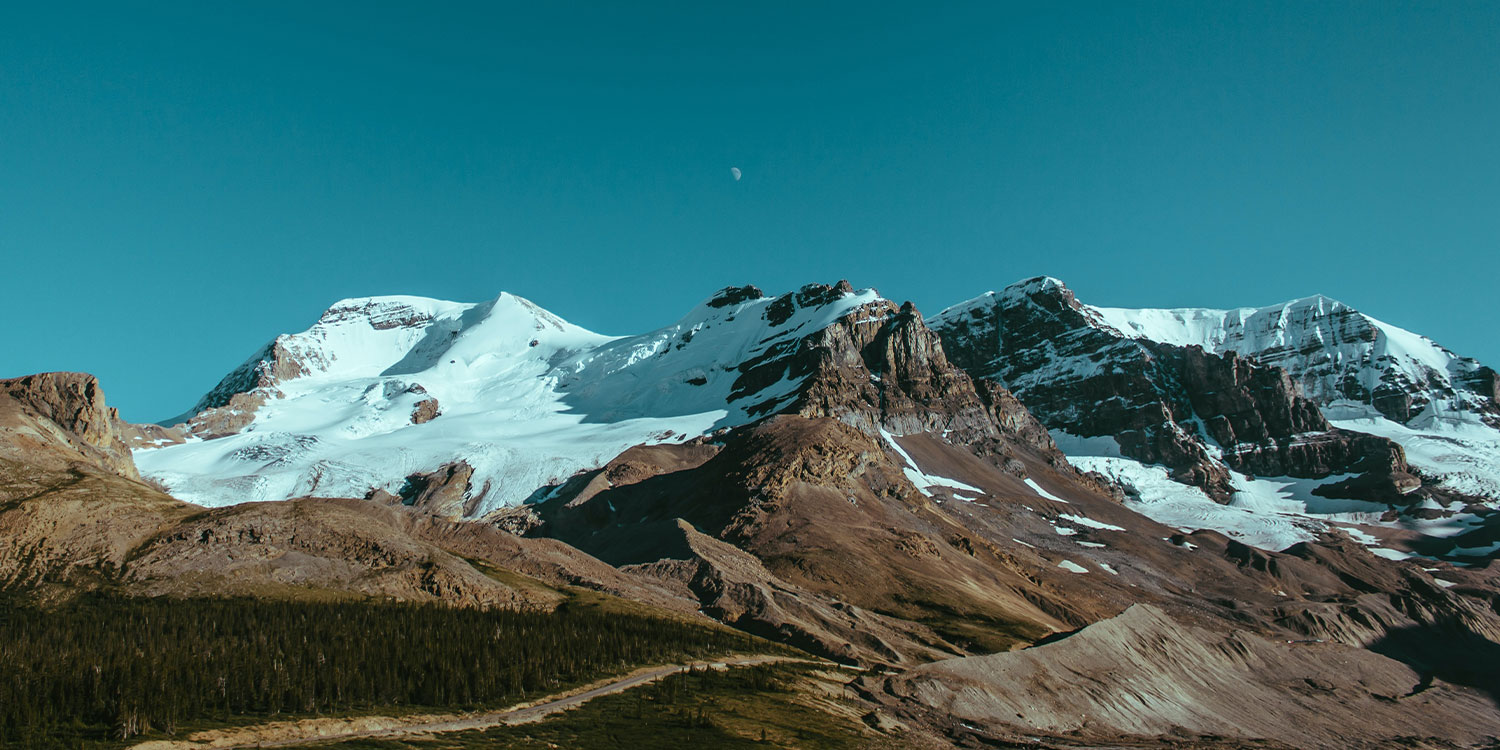
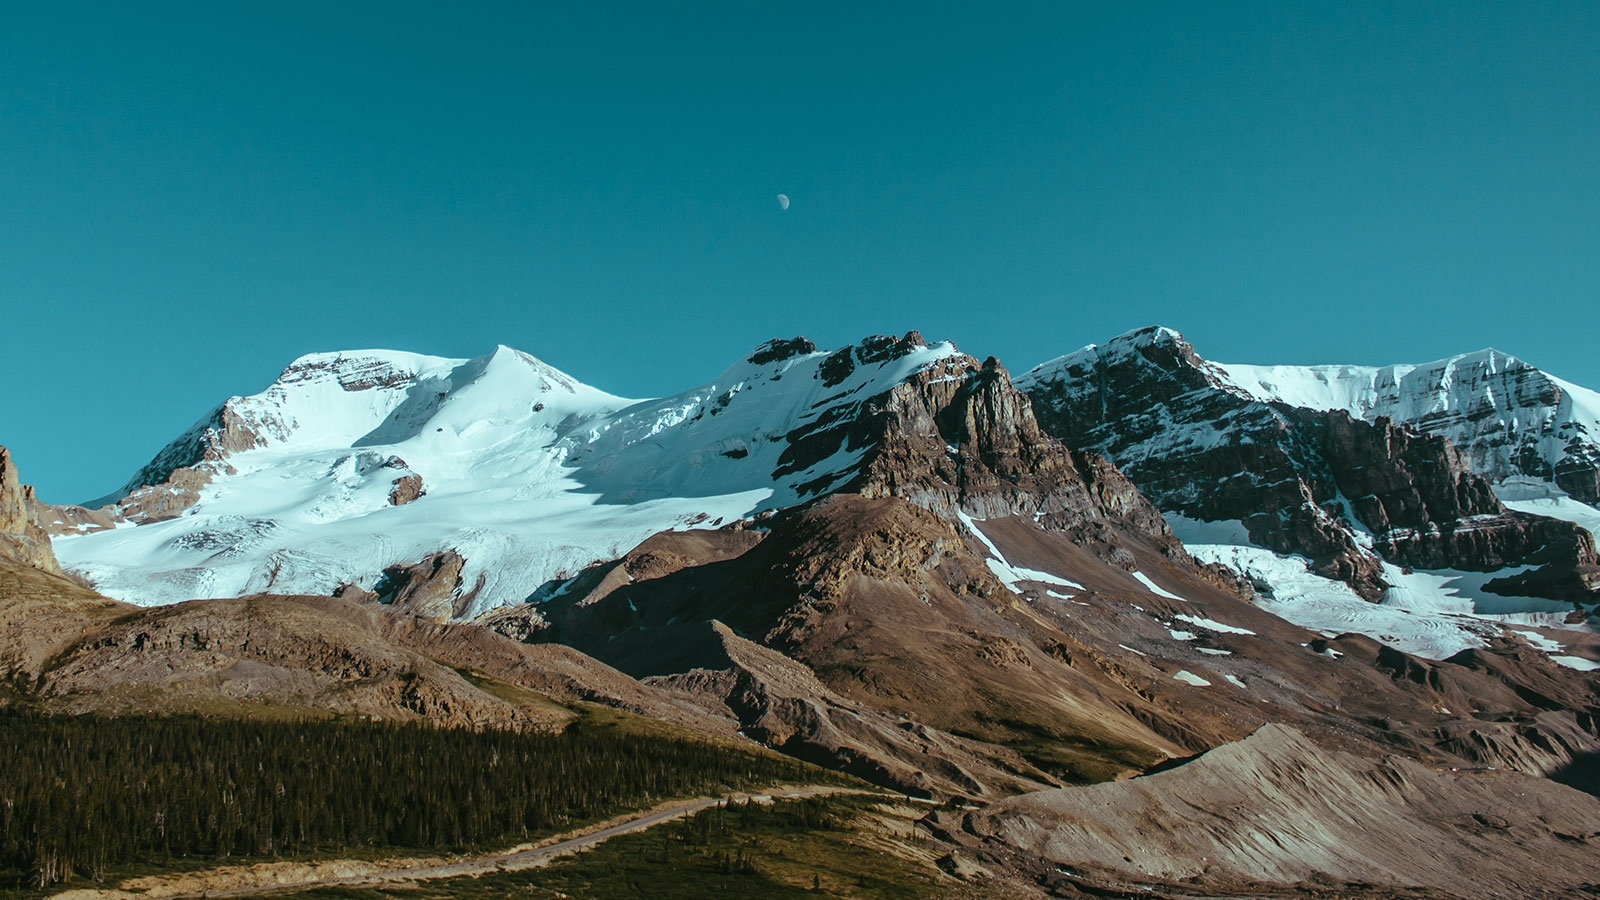
updating backdrops

diff --git a/_docs-a-z/backdrops.html b/_docs-a-z/backdrops.html
@@ -71,7 +71,7 @@ title: "Backdrops"
                     &lt;/div&gt;
 
                     &lt;div class="backdrop__image"&gt;
-                        &lt;img class="opacity-50" src="https://via.placeholder.com/1500x750" alt="Placeholder"&gt;
+                        &lt;img class="opacity-50" src="https://via.placeholder.com/1600x900" alt="Placeholder"&gt;
                     &lt;/div&gt;
 
                     &lt;div class="backdrop__cover"&gt;
@@ -88,11 +88,12 @@ title: "Backdrops"
                     &lt;/div&gt;
                     
                 &lt;/div&gt;
+                &lt;!-- .backdrop --&gt;
             </code>
         </pre>
     </div>
     <figcaption>
-        <p>Figure 4</p>
+        <p>Figure 1</p>
     </figcaption>
 </figure>
 
@@ -163,23 +164,22 @@ title: "Backdrops"
 <div class="container narrow margin-y-4">
     <h3>Breakpoint Modifiers</h3>
     <p>
-        When using image size proportional backdrops for featured content (like the full-width example below) the content may become
-        too tall for the image on smaller viewport sizes.
+        When using image size proportional backdrops for featured content (like the full-width example below) the content may become too tall for the image on smaller viewport sizes.
     </p>
 </div>
 
 <figure class="margin-y-4">
 
-    <div class="backdrop backdrop--stack--md theme-dark example" {{ site.example-custom-properties }}>
+    <div class="backdrop backdrop--stack--lg theme-dark" {{ site.example-custom-properties }}>
 
         <div class="backdrop__credit">
             <p>
-                Photo by <a href="#1">Jane Doe</a> on Unsplash
+                Photo by <a href="https://unsplash.com/@anik3t?utm_source=unsplash&utm_medium=referral&utm_content=creditCopyText" target="_blank">Aniket Deole</a> on <a href="https://unsplash.com/s/photos/yosemite?utm_source=unsplash&utm_medium=referral&utm_content=creditCopyText" target="_blank">Unsplash</a>
             </p>
         </div>
 
         <div class="backdrop__image">
-            <img class="opacity-30" src="{{ site.url }}/images/examples/backdrop-example-02.jpg" alt="Placeholder">
+            <img class="opacity-40--lg" src="{{ site.url }}/images/examples/backdrop-example-02.jpg" alt="Placeholder">
         </div>
 
         <div class="backdrop__cover">
@@ -195,11 +195,11 @@ title: "Backdrops"
                     </p>
                 </div>
 
-                <div class="grid grid--gap-2 grid--cell-fill--md">
+                <div class="grid grid--gap-2 grid--cell-6--md">
 
                     <div class="grid__cell">
                         <a class="button button--outline width-100" href="#1">
-                        About Emily Dickenson
+                            About Emily Dickenson
                         </a>
                     </div>
 
@@ -214,9 +214,9 @@ title: "Backdrops"
             </div>
 
         </div>
-        <!-- .backdrop__cover -->
 
     </div>
+    <!-- .backdrop -->
 
 </figure>
 
@@ -253,45 +253,41 @@ title: "Backdrops"
                 &lt;/div&gt;
 
                 &lt;div class="backdrop__image"&gt;
-                    &lt;img class="opacity-30" src="https://via.placeholder.com/1500x750" alt="Placeholder"&gt;
+                    &lt;img class="opacity-40--lg" src="https://via.placeholder.com/1600x900" alt="Placeholder"&gt;
                 &lt;/div&gt;
 
                 &lt;div class="backdrop__cover"&gt;
 
-                    &lt;div class="container text-align-center"&gt;
-                        &lt;div class="container medium margin-y-4"&gt;
+                    &lt;div class="container narrow margin-y-5"&gt;
 
-                            &lt;h1 class="banner-headline text-align-center text-shadow margin-bottom-4"&gt;
-                                Lorem ipsum dolor sit amet consectetur
+                        &lt;div class="text-shadow text-align-center margin-bottom-4"&gt;
+                            &lt;h1 class="banner-headline"&gt; 
+                                The mountain at a given distance In amber lies
                             &lt;/h1&gt;
-
-                            &lt;div class="narrow"&gt;
-
-                                &lt;div class="grid grid--gap-2 grid--cell-fill--sm"&gt;
-
-                                    &lt;div class="grid__cell"&gt;
-                                        &lt;a class="button theme-primary display-block theme-white box-shadow" href="#1"&gt;Link&lt;/a&gt;
-                                    &lt;/div&gt;
-                                    &lt;!-- .grid__cell --&gt;
-
-                                    &lt;div class="grid__cell"&gt;
-                                        &lt;a class="button theme-secondary display-block theme-white box-shadow" href="#1"&gt;Link&lt;/a&gt;
-                                    &lt;/div&gt;
-                                    &lt;!-- .grid__cell --&gt;
-
-                                &lt;/div&gt;
-                                &lt;!-- .grid --&gt;
-
-                            &lt;/div&gt;
-
+                            &lt;p&gt;
+                                &#8212;Excerpt from &lt;em&gt;Delight becomes pictoral&lt;/em&gt;
+                            &lt;/p&gt;
                         &lt;/div&gt;
-                        &lt;!-- .container --&gt;
+
+                        &lt;div class="grid grid--gap-2 grid--cell-6--md"&gt;
+                            &lt;div class="grid__cell"&gt;
+                                &lt;a class="button button--outline width-100" href="#1"&gt;
+                                    About Emily Dickenson
+                                &lt;/a&gt;
+                            &lt;/div&gt;
+                            &lt;div class="grid__cell"&gt;
+                                &lt;a class="button theme-secondary width-100 box-shadow-1" href="#1"&gt;
+                                    Emily Dickenson Poetry
+                                &lt;/a&gt;
+                            &lt;/div&gt;
+                        &lt;/div&gt;
+
                     &lt;/div&gt;
 
                 &lt;/div&gt;
-                &lt;!-- .backdrop__cover --&gt;
 
             &lt;/div&gt;
+            &lt;!-- .backdrop --&gt;
         </code>
     </pre>
     <figcaption>
@@ -302,7 +298,7 @@ title: "Backdrops"
 
 <div class="container narrow margin-y-4">
     <p>
-        All of this together makes it easy to create responsive backdrops with different flavors of color and content. What if we don't want our backdrop's size to be dictated by the image?
+        All of this together makes it easy to create responsive backdrops with different flavors of color and content. What if we don't want our backdrop's size to be dictated by its feature image?
     </p>
 </div>
 <!-- .container -->
@@ -315,7 +311,7 @@ title: "Backdrops"
         Fixed height backdrops retain their height across viewport sizes. When needed, they adjust to the height of their inner content.
     </p>
     <p>
-        For a fixed height backdrop, append the <code>backdrop--fixed</code> modifier to the <code>.backdrop</code> selector.
+        For a fixed height backdrop, append the <code>.backdrop--fixed</code> modifier to the <code>.backdrop</code> selector.
     </p>
 </div>
 
@@ -325,7 +321,7 @@ title: "Backdrops"
 
         <div class="backdrop__credit">
             <p>
-                Photo by <a href="#1">Jane Doe</a> on Unsplash
+                Photo by <a href="https://unsplash.com/@ryanschroeder?utm_source=unsplash&utm_medium=referral&utm_content=creditCopyText" target="blank">Ryan Schroeder</a> on <a href="https://unsplash.com/@ryanschroeder?utm_source=unsplash&utm_medium=referral&utm_content=creditCopyText" target="blank">Unsplash</a>
             </p>
         </div>
 
@@ -363,19 +359,18 @@ title: "Backdrops"
                 &lt;/div&gt;
 
                 &lt;div class="backdrop__image"&gt;
-                    &lt;img class="opacity-30" src="https://via.placeholder.com/1500x750.jpg" alt="Placeholder"&gt;
+                    &lt;img class="opacity-40" src="https://via.placeholder.com/1600x900" alt="Placeholder"&gt;
                 &lt;/div&gt;
 
                 &lt;div class="backdrop__cover"&gt;
 
                     &lt;div class="container medium margin-y-4"&gt;
-                        &lt;h1 class="banner-headline text-shadow"&gt;
-                            Lorem ipsum dolor
+                        &lt;h1 class="banner-headline text-color-secondary text-shadow"&gt;
+                            The Mountain sat upon the Plain
                         &lt;/h1&gt;
                     &lt;/div&gt;
 
                 &lt;/div&gt;
-                &lt;!-- .backdrop__cover --&gt;
 
             &lt;/div&gt;
             &lt;!-- .backdrop --&gt;
@@ -499,7 +494,7 @@ title: "Backdrops"
                 &lt;/div&gt;
 
                 &lt;div class="backdrop__image gradient-veneer-bottom"&gt;
-                    &lt;img class="opacity-20" src="https://via.placeholder.com/1500x750.jpg" alt=""&gt;
+                    &lt;img class="opacity-20" src="https://via.placeholder.com/1600x900.jpg" alt=""&gt;
                 &lt;/div&gt;
 
                 &lt;div class="backdrop__cover"&gt;

diff --git a/_examples/backdrops/backdrops-01.html b/_examples/backdrops/backdrops-01.html
@@ -9,7 +9,7 @@ title: "Backdrop (Breakpoint)"
 
         <div class="backdrop__credit">
             <p>
-                Photo by <a href="#1">Jane Doe</a> on Unsplash
+                Photo by <a href="https://unsplash.com/@anik3t?utm_source=unsplash&utm_medium=referral&utm_content=creditCopyText" target="_blank">Aniket Deole</a> on <a href="https://unsplash.com/s/photos/yosemite?utm_source=unsplash&utm_medium=referral&utm_content=creditCopyText" target="_blank">Unsplash</a>
             </p>
         </div>
 
